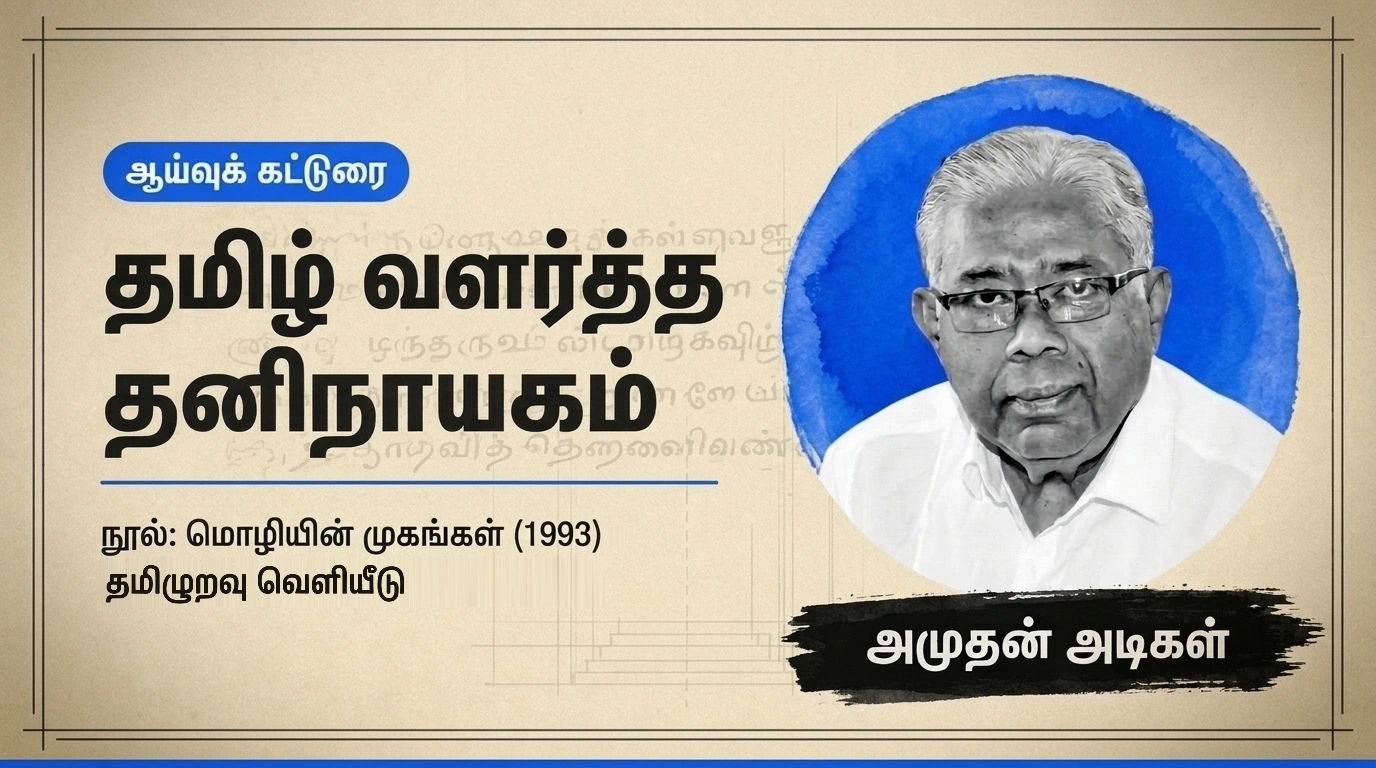
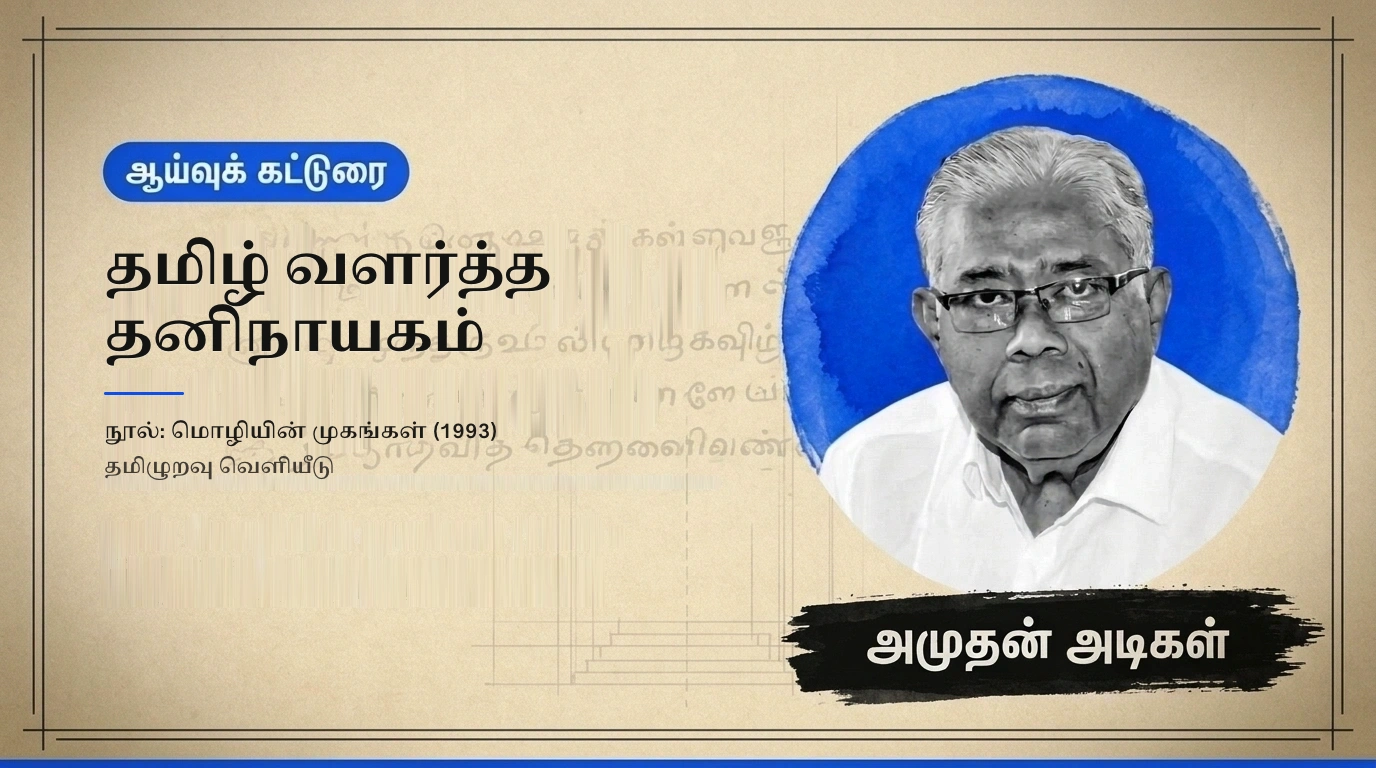
style(katturai): reduce title fontsize and apply Noto Serif Tamil typography to thumbnail and reader

Changed region(s): [[0.0625, 0.2812, 0.5312, 0.7812]]

diff --git a/assets/css/living-pages.css b/assets/css/living-pages.css
@@ -789,7 +789,7 @@ html[lang="en"] .section-volunteers .section-lead-box .section-subhead {
 
 .katturai-card-copy .katturai-card-title {
   margin: 0 0 .5rem;
-  font: 700 clamp(1.4rem, 2.3vw, 2.05rem)/1.34 "Spectral", "Noto Serif Tamil", Georgia, serif;
+  font: 700 clamp(1.25rem, 2vw, 1.8rem)/1.34 var(--font-title);
   color: var(--ink);
   text-wrap: pretty;
 }
@@ -1145,14 +1145,19 @@ html[lang="en"] .section-volunteers .section-lead-box .section-subhead {
 }
 
 .km-title {
-  font-family: var(--font-title, "Spectral", "Noto Serif Tamil", Georgia, serif);
-  font-size: clamp(2.2rem, 4.4vw, 3.25rem);
+  font-family: var(--font-title, "Noto Serif Tamil", "Tamil Sangam MN", "Spectral", Georgia, serif);
+  font-size: clamp(1.85rem, 3.2vw, 2.5rem);
   font-weight: 700;
-  line-height: 1.25;
-  letter-spacing: -0.015em;
+  line-height: 1.32;
+  letter-spacing: -0.01em;
   color: var(--ink);
   margin: 0 0 1.5rem;
   text-wrap: balance;
+}
+
+html[lang="en"] .km-title {
+  font-family: "Spectral", Georgia, serif;
+  font-size: clamp(1.95rem, 3.4vw, 2.65rem);
 }
 
 .km-byline {

diff --git a/assets/css/typography.css b/assets/css/typography.css
@@ -5,6 +5,7 @@
   --font-ta: var(--font-ui);
   --font-ta-sans: var(--font-ui);
   --font-display: "Spectral", "Tamil Sangam MN", "Noto Serif Tamil", Georgia, serif;
+  --font-title: "Noto Serif Tamil", "Tamil Sangam MN", "Spectral", Georgia, serif;
 }
 
 body { font-size: 1rem; line-height: 1.75; }
